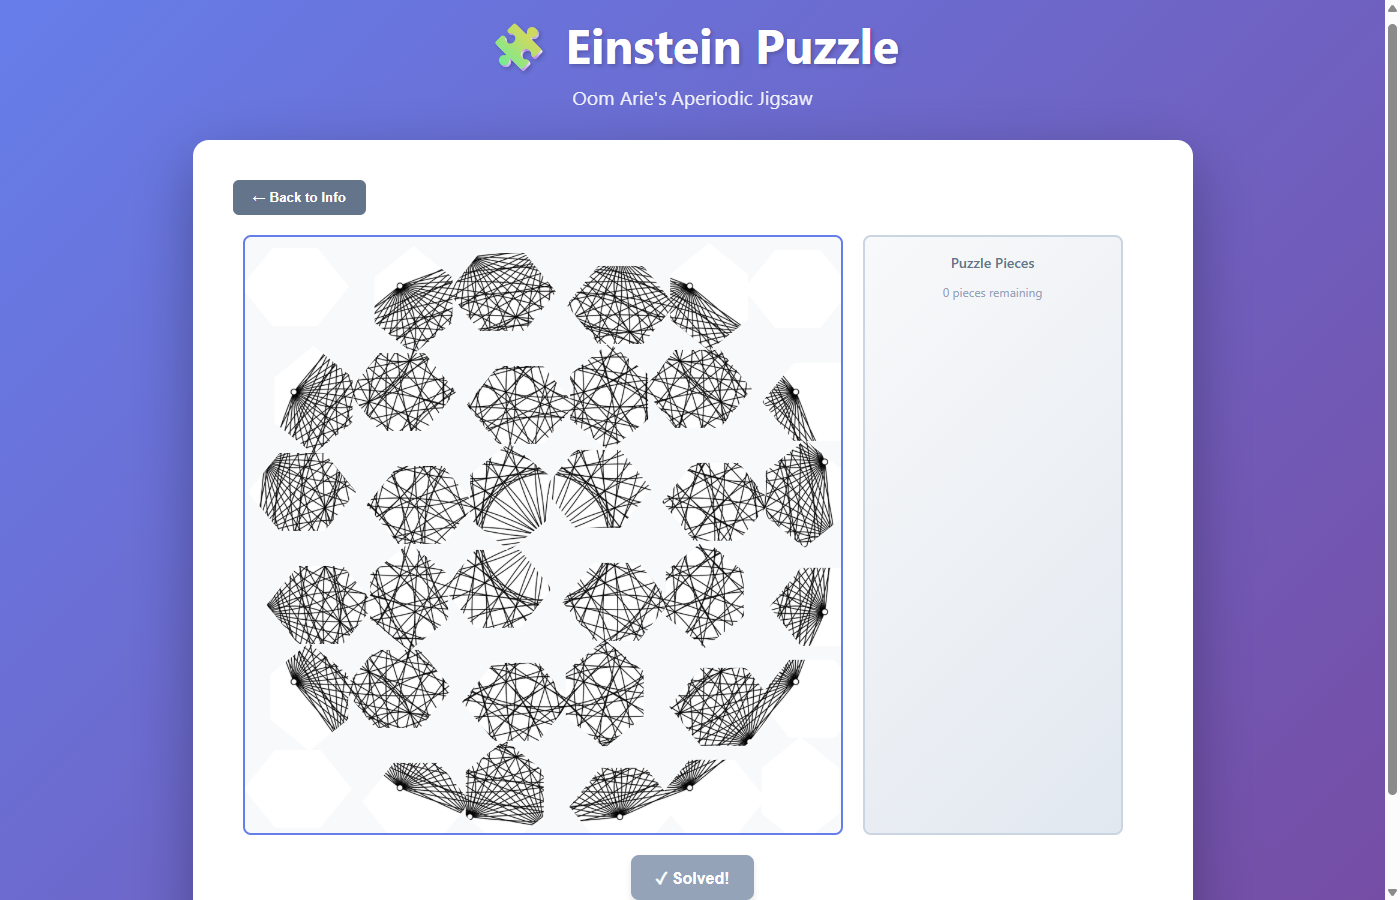
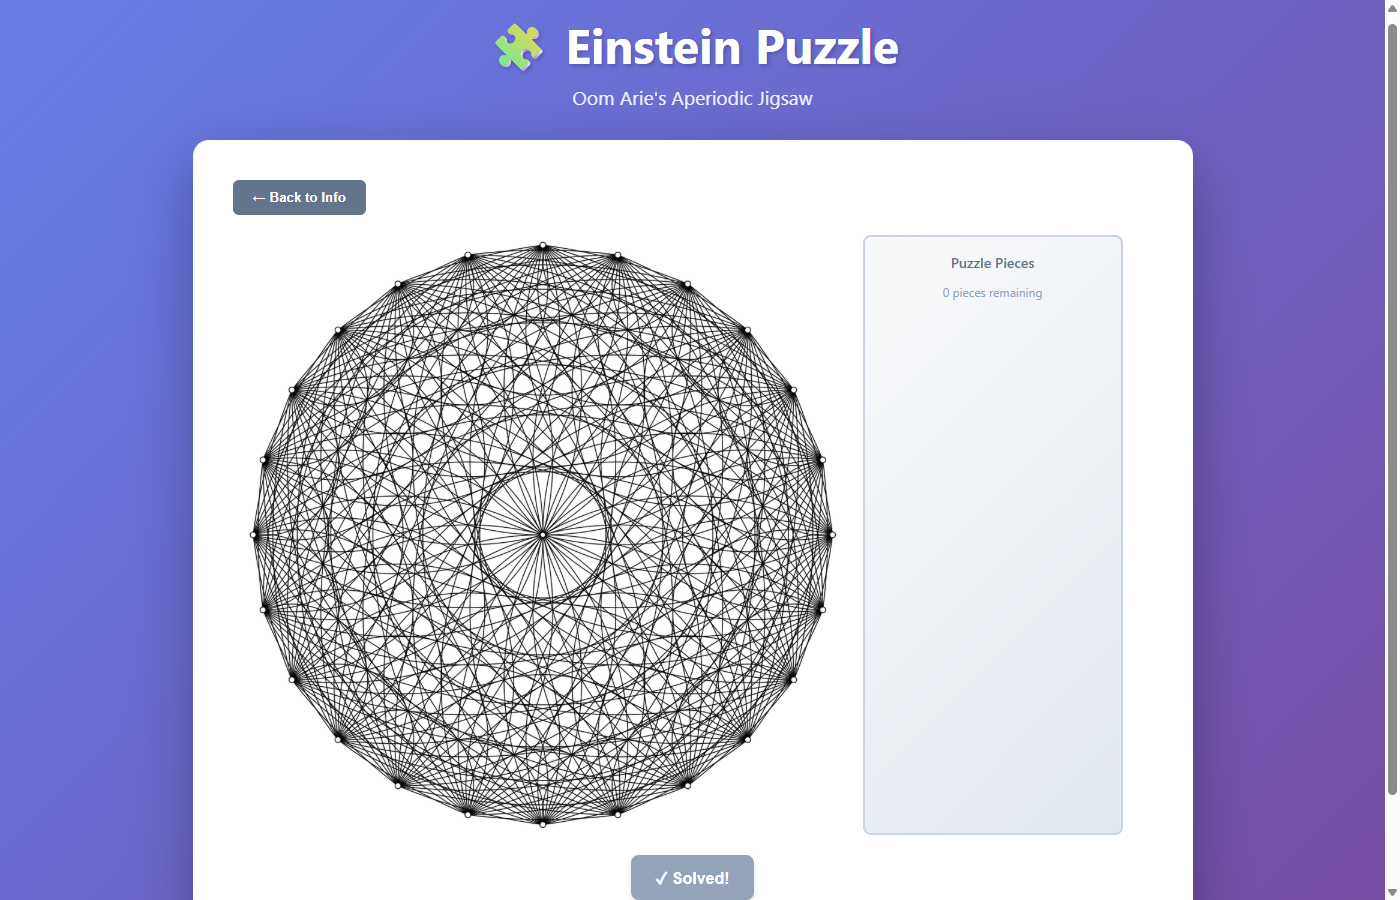
Fix puzzle pieces in tray: Use SVG transform for proper positioning
- Fixed pieces not appearing in tray (SVG viewport issue)
- Use transform on <g> element instead of x/y on image
- Pieces now correctly start in tray on the right
- Board is empty and ready for puzzle solving
- Complete image shows perfectly when solved (no white gaps)
- All 36 pieces visible with correct image content

Changed region(s): [[0.1536, 0.2489, 0.6143, 0.9333]]

diff --git a/src/components/PuzzleBoard.tsx b/src/components/PuzzleBoard.tsx
@@ -142,69 +142,36 @@ export function PuzzleBoard({ config, pieces: initialPieces }: PuzzleBoardProps)
           position: 'relative',
           width: totalWidth,
           height: config.canvasSize,
-          display: 'flex',
-          gap: '20px'
         }}
         onMouseMove={handleMouseMove}
         onMouseUp={handleMouseUp}
         onMouseLeave={handleMouseUp}
       >
-        {/* Puzzle Board */}
-        <svg
-          width={config.canvasSize}
-          height={config.canvasSize}
-          style={{
-            border: '2px solid #667eea',
-            borderRadius: '8px',
-            background: '#f8f9fa',
-            flexShrink: 0
-          }}
-        >
-          <defs>
-            {pieces.map(piece => (
-              <clipPath key={`clip-${piece.id}`} id={`clip-${piece.id}`}>
-                <polygon points={piece.polygon.points.map(p => `${p.x},${p.y}`).join(' ')} />
-              </clipPath>
-            ))}
-          </defs>
-
-          {pieces.map(piece => (
-            <g key={piece.id}>
-              <image
-                href={config.imageUrl}
-                width={config.canvasSize}
-                height={config.canvasSize}
-                x={piece.currentX - piece.correctX}
-                y={piece.currentY - piece.correctY}
-                clipPath={`url(#clip-${piece.id})`}
-                style={{ cursor: 'move' }}
-                onMouseDown={(e) => handleMouseDown(e as unknown as React.MouseEvent, piece.id)}
-              />
-              {/* Only show borders if not solved */}
-              {!isSolved && (
-                <polygon
-                  points={piece.polygon.points
-                    .map(p => `${p.x - piece.correctX + piece.currentX},${p.y - piece.correctY + piece.currentY}`)
-                    .join(' ')}
-                  fill="none"
-                  stroke={piece.isPlaced ? '#10b981' : '#667eea'}
-                  strokeWidth={piece.isPlaced ? 3 : 2}
-                  opacity={0.5}
-                  pointerEvents="none"
-                />
-              )}
-            </g>
-          ))}
-        </svg>
-
-        {/* Tray on the right */}
+        {/* Board background */}
         <div style={{
+          position: 'absolute',
+          left: 0,
+          top: 0,
+          width: config.canvasSize,
+          height: config.canvasSize,
+          border: '2px solid #667eea',
+          borderRadius: '8px',
+          background: '#f8f9fa',
+          pointerEvents: 'none'
+        }} />
+
+        {/* Tray background */}
+        <div style={{
+          position: 'absolute',
+          left: config.canvasSize + 20,
+          top: 0,
           width: '260px',
+          height: config.canvasSize,
           background: 'linear-gradient(135deg, #f8f9fa 0%, #e2e8f0 100%)',
           borderRadius: '8px',
           border: '2px solid #cbd5e1',
           padding: '16px',
-          position: 'relative'
+          pointerEvents: 'none'
         }}>
           <h3 style={{
             color: '#64748b',
@@ -224,6 +191,68 @@ export function PuzzleBoard({ config, pieces: initialPieces }: PuzzleBoardProps)
             {pieces.filter(p => !p.isPlaced).length} pieces remaining
           </p>
         </div>
+
+        {/* Full area SVG for all pieces */}
+        <svg
+          width={totalWidth}
+          height={config.canvasSize}
+          style={{
+            position: 'absolute',
+            left: 0,
+            top: 0,
+            pointerEvents: 'all'
+          }}
+        >
+          {/* Show complete image when solved */}
+          {isSolved && (
+            <image
+              href={config.imageUrl}
+              width={config.canvasSize}
+              height={config.canvasSize}
+              x={0}
+              y={0}
+            />
+          )}
+
+          {/* Show puzzle pieces when not solved */}
+          {!isSolved && (
+            <>
+              <defs>
+                {pieces.map(piece => (
+                  <clipPath key={`clip-${piece.id}`} id={`clip-${piece.id}`}>
+                    <polygon points={piece.polygon.points.map(p => `${p.x},${p.y}`).join(' ')} />
+                  </clipPath>
+                ))}
+              </defs>
+
+              {pieces.map(piece => (
+                <g
+                  key={piece.id}
+                  transform={`translate(${piece.currentX - piece.correctX}, ${piece.currentY - piece.correctY})`}
+                >
+                  <image
+                    href={config.imageUrl}
+                    width={config.canvasSize}
+                    height={config.canvasSize}
+                    x={0}
+                    y={0}
+                    clipPath={`url(#clip-${piece.id})`}
+                    style={{ cursor: 'move' }}
+                    onMouseDown={(e) => handleMouseDown(e as unknown as React.MouseEvent, piece.id)}
+                  />
+                  <polygon
+                    points={piece.polygon.points.map(p => `${p.x},${p.y}`).join(' ')}
+                    fill="none"
+                    stroke={piece.isPlaced ? '#10b981' : '#667eea'}
+                    strokeWidth={piece.isPlaced ? 3 : 2}
+                    opacity={0.5}
+                    pointerEvents="none"
+                  />
+                </g>
+              ))}
+            </>
+          )}
+        </svg>
       </div>
 
       {/* Controls below */}

diff --git a/src/utils/hatPuzzleGenerator.ts b/src/utils/hatPuzzleGenerator.ts
@@ -8,8 +8,8 @@ export function createPuzzlePiecesFromPolygons(polygons: Polygon[]): PuzzlePiece
       polygon,
       correctX: centroid.x,
       correctY: centroid.y,
-      currentX: Math.random() * 400 + 100,
-      currentY: Math.random() * 400 + 100,
+      currentX: 0, // Will be set by PuzzleBoard to tray position
+      currentY: 0,
       rotation: 0,
       isPlaced: false,
     };
